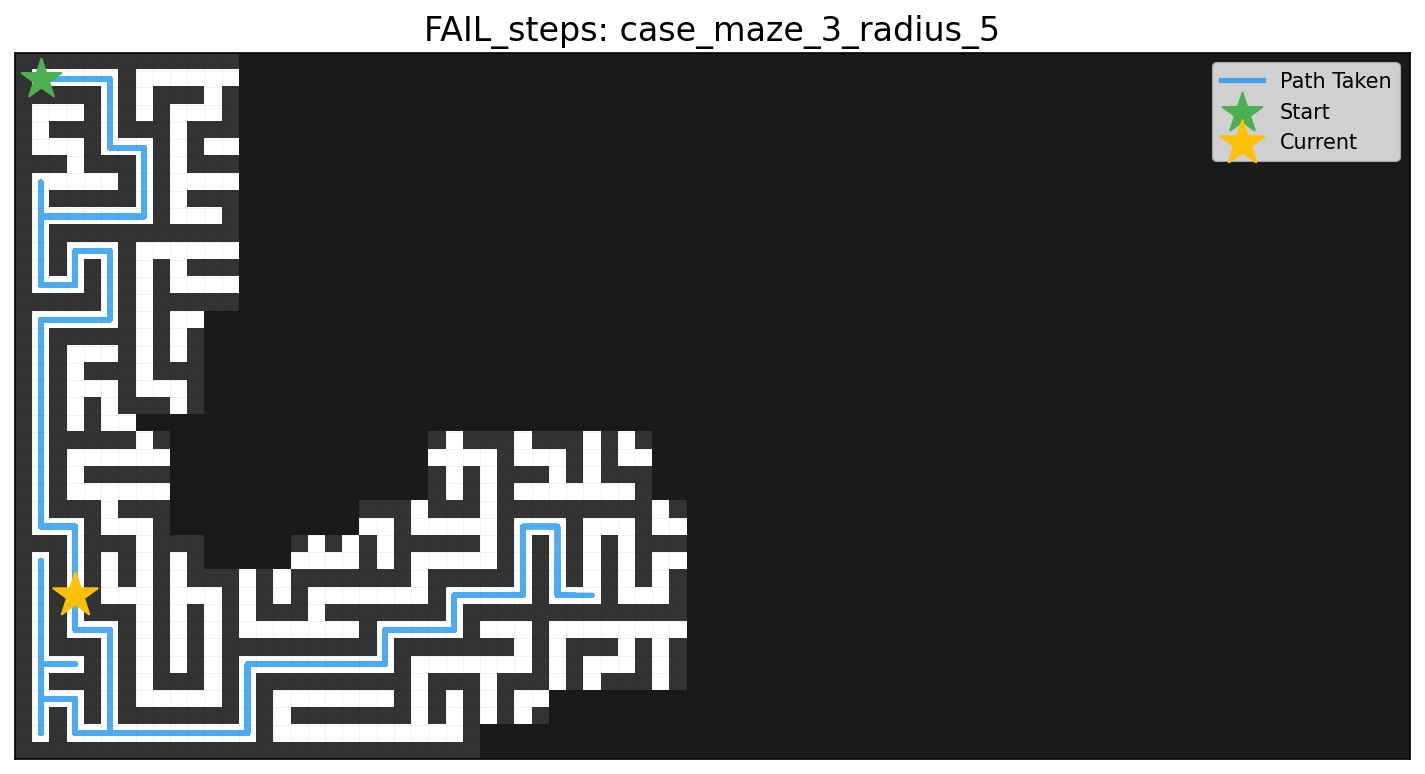
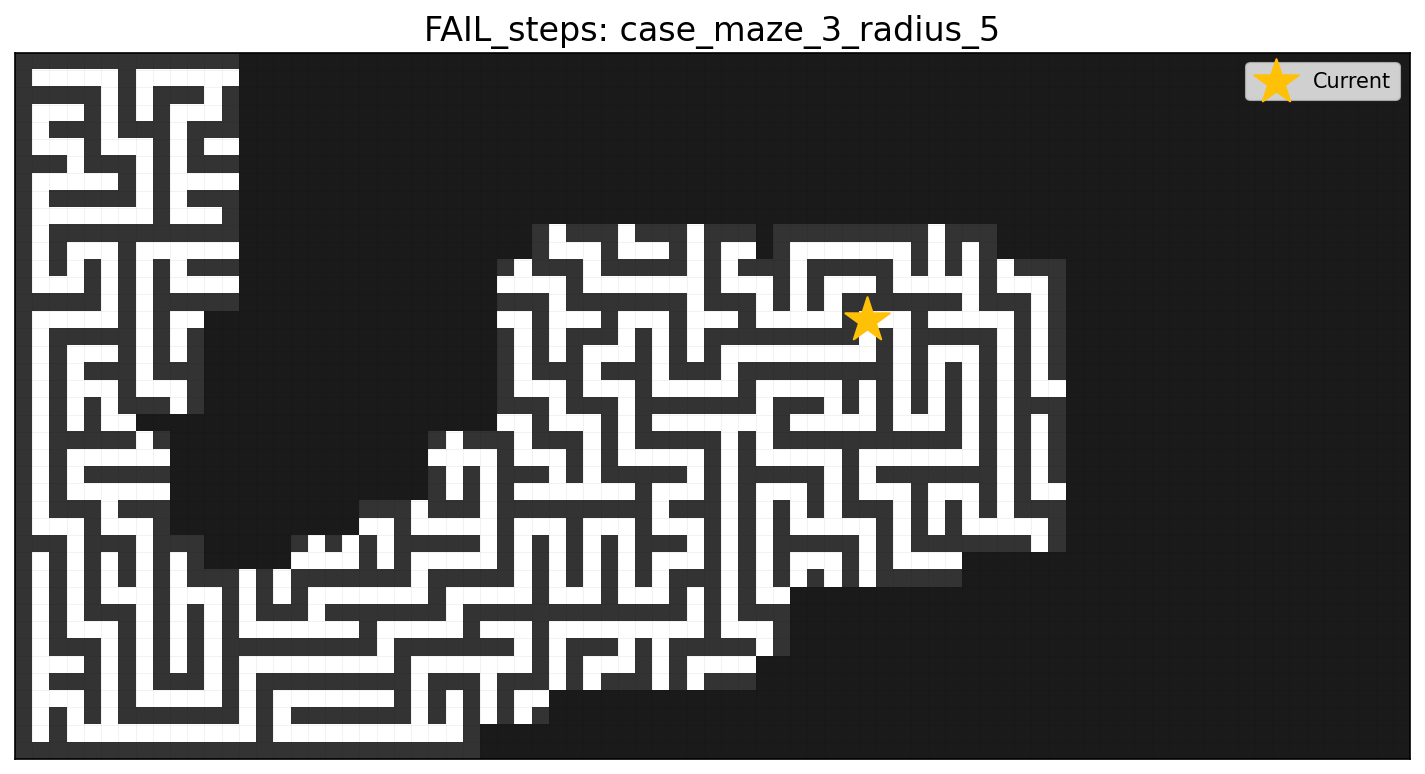
使用A*后，貌似快了一点？

Changed region(s): [[0.3396, 0.2791, 0.7719, 0.8992], [0.0, 0.093, 0.4323, 0.9612], [0.8337, 0.062, 0.9881, 0.2171]]

diff --git a/candidate_planner.py b/candidate_planner.py
@@ -1,5 +1,6 @@
 import numpy as np
 import random
+import heapq
 from collections import deque
 
 class Planner:
@@ -30,6 +31,61 @@ class Planner:
                     boundary_points.append((nx, ny))
         return boundary_points
 
+    def a_star(self, start: tuple[int, int], goal: tuple[int, int]):
+        """A*算法路径规划，比BFS更快找到最短路径"""
+        if start == goal:
+            return [start]
+            
+        # 初始化开放列表（优先队列）
+        open_set = []
+        heapq.heappush(open_set, (0, start))
+        
+        # 跟踪路径
+        came_from = {}
+        
+        # 起点到各点的实际代价
+        g_score = {start: 0}
+        
+        while open_set:
+            _, current = heapq.heappop(open_set)
+            
+            # 如果到达目标点，重建路径
+            if current == goal:
+                path = [current]
+                while current != start:
+                    current = came_from[current]
+                    path.append(current)
+                path.reverse()
+                return path
+            
+            cx, cy = current
+            # 探索四个方向
+            for dx, dy in [(0, 1), (0, -1), (1, 0), (-1, 0)]:
+                nx, ny = cx + dx, cy + dy
+                neighbor = (nx, ny)
+                
+                # 边界检查
+                if not (0 <= ny < self.map_shape[0] and 0 <= nx < self.map_shape[1]):
+                    continue
+                
+                # 跳过障碍物
+                if self.known_map[ny, nx] == 1:
+                    continue
+                
+                # 计算新的代价
+                new_g = g_score[current] + 1
+                
+                # 如果这是更好的路径，更新路径
+                if neighbor not in g_score or new_g < g_score[neighbor]:
+                    came_from[neighbor] = current
+                    g_score[neighbor] = new_g
+                    # 计算启发式代价（曼哈顿距离）
+                    h_score = abs(nx - goal[0]) + abs(ny - goal[1])
+                    f_score = new_g + h_score
+                    heapq.heappush(open_set, (f_score, neighbor))
+        
+        return None  # 没有找到路径
+
     def plan_next_step(self, current_pos: tuple[int, int], all_possible_targets: list[tuple[int, int]]) -> tuple[int, int]:
         if not self.path_taken or self.path_taken[-1] != current_pos:
             self.path_taken.append(current_pos)
@@ -41,7 +97,19 @@ class Planner:
         if current_pos in target_set and self.known_map[current_pos[1], current_pos[0]] == 0:
             return current_pos
         
-        # 执行BFS进行路径规划
+        # 首先检查是否有已知目标点可以使用A*算法
+        for target in all_possible_targets:
+            tx, ty = target
+            if (0 <= ty < self.map_shape[0] and 
+                0 <= tx < self.map_shape[1] and
+                self.known_map[ty, tx] == 0):  # 确保目标点是已知空地
+                
+                # 使用A*算法规划到目标点的路径
+                path = self.a_star(current_pos, target)
+                if path and len(path) > 1:
+                    return path[1]  # 返回路径的第一步
+        
+        # 没有找到已知目标点，执行BFS进行探索
         queue = deque([current_pos])
         visited = {current_pos}
         parent = {current_pos: None}
@@ -50,7 +118,7 @@ class Planner:
         found_frontier = None
         
         # BFS搜索最近的目标或边界
-        while queue:
+        while queue and not found_target:  # 如果找到目标就提前退出
             x, y = queue.popleft()
             
             # 检查是否找到目标
@@ -79,16 +147,20 @@ class Planner:
                     queue.append(next_pos)
                     parent[next_pos] = (x, y)
         
-        # 回溯路径找到第一步移动
+        # 回溯路径找到第一步移动的函数
         def find_first_step(target):
             step = target
             while parent[step] != current_pos:
                 step = parent[step]
             return step
         
-        # 优先处理找到的目标
+        # 优先处理找到的目标（使用A*算法加速）
         if found_target:
-            return find_first_step(found_target)
+            path = self.a_star(current_pos, found_target)
+            if path and len(path) > 1:
+                return path[1]  # 使用A*返回下一步
+            else:
+                return find_first_step(found_target)  # 如果A*失败则回退到BFS方法
         
         # 其次处理边界点
         if found_frontier:
